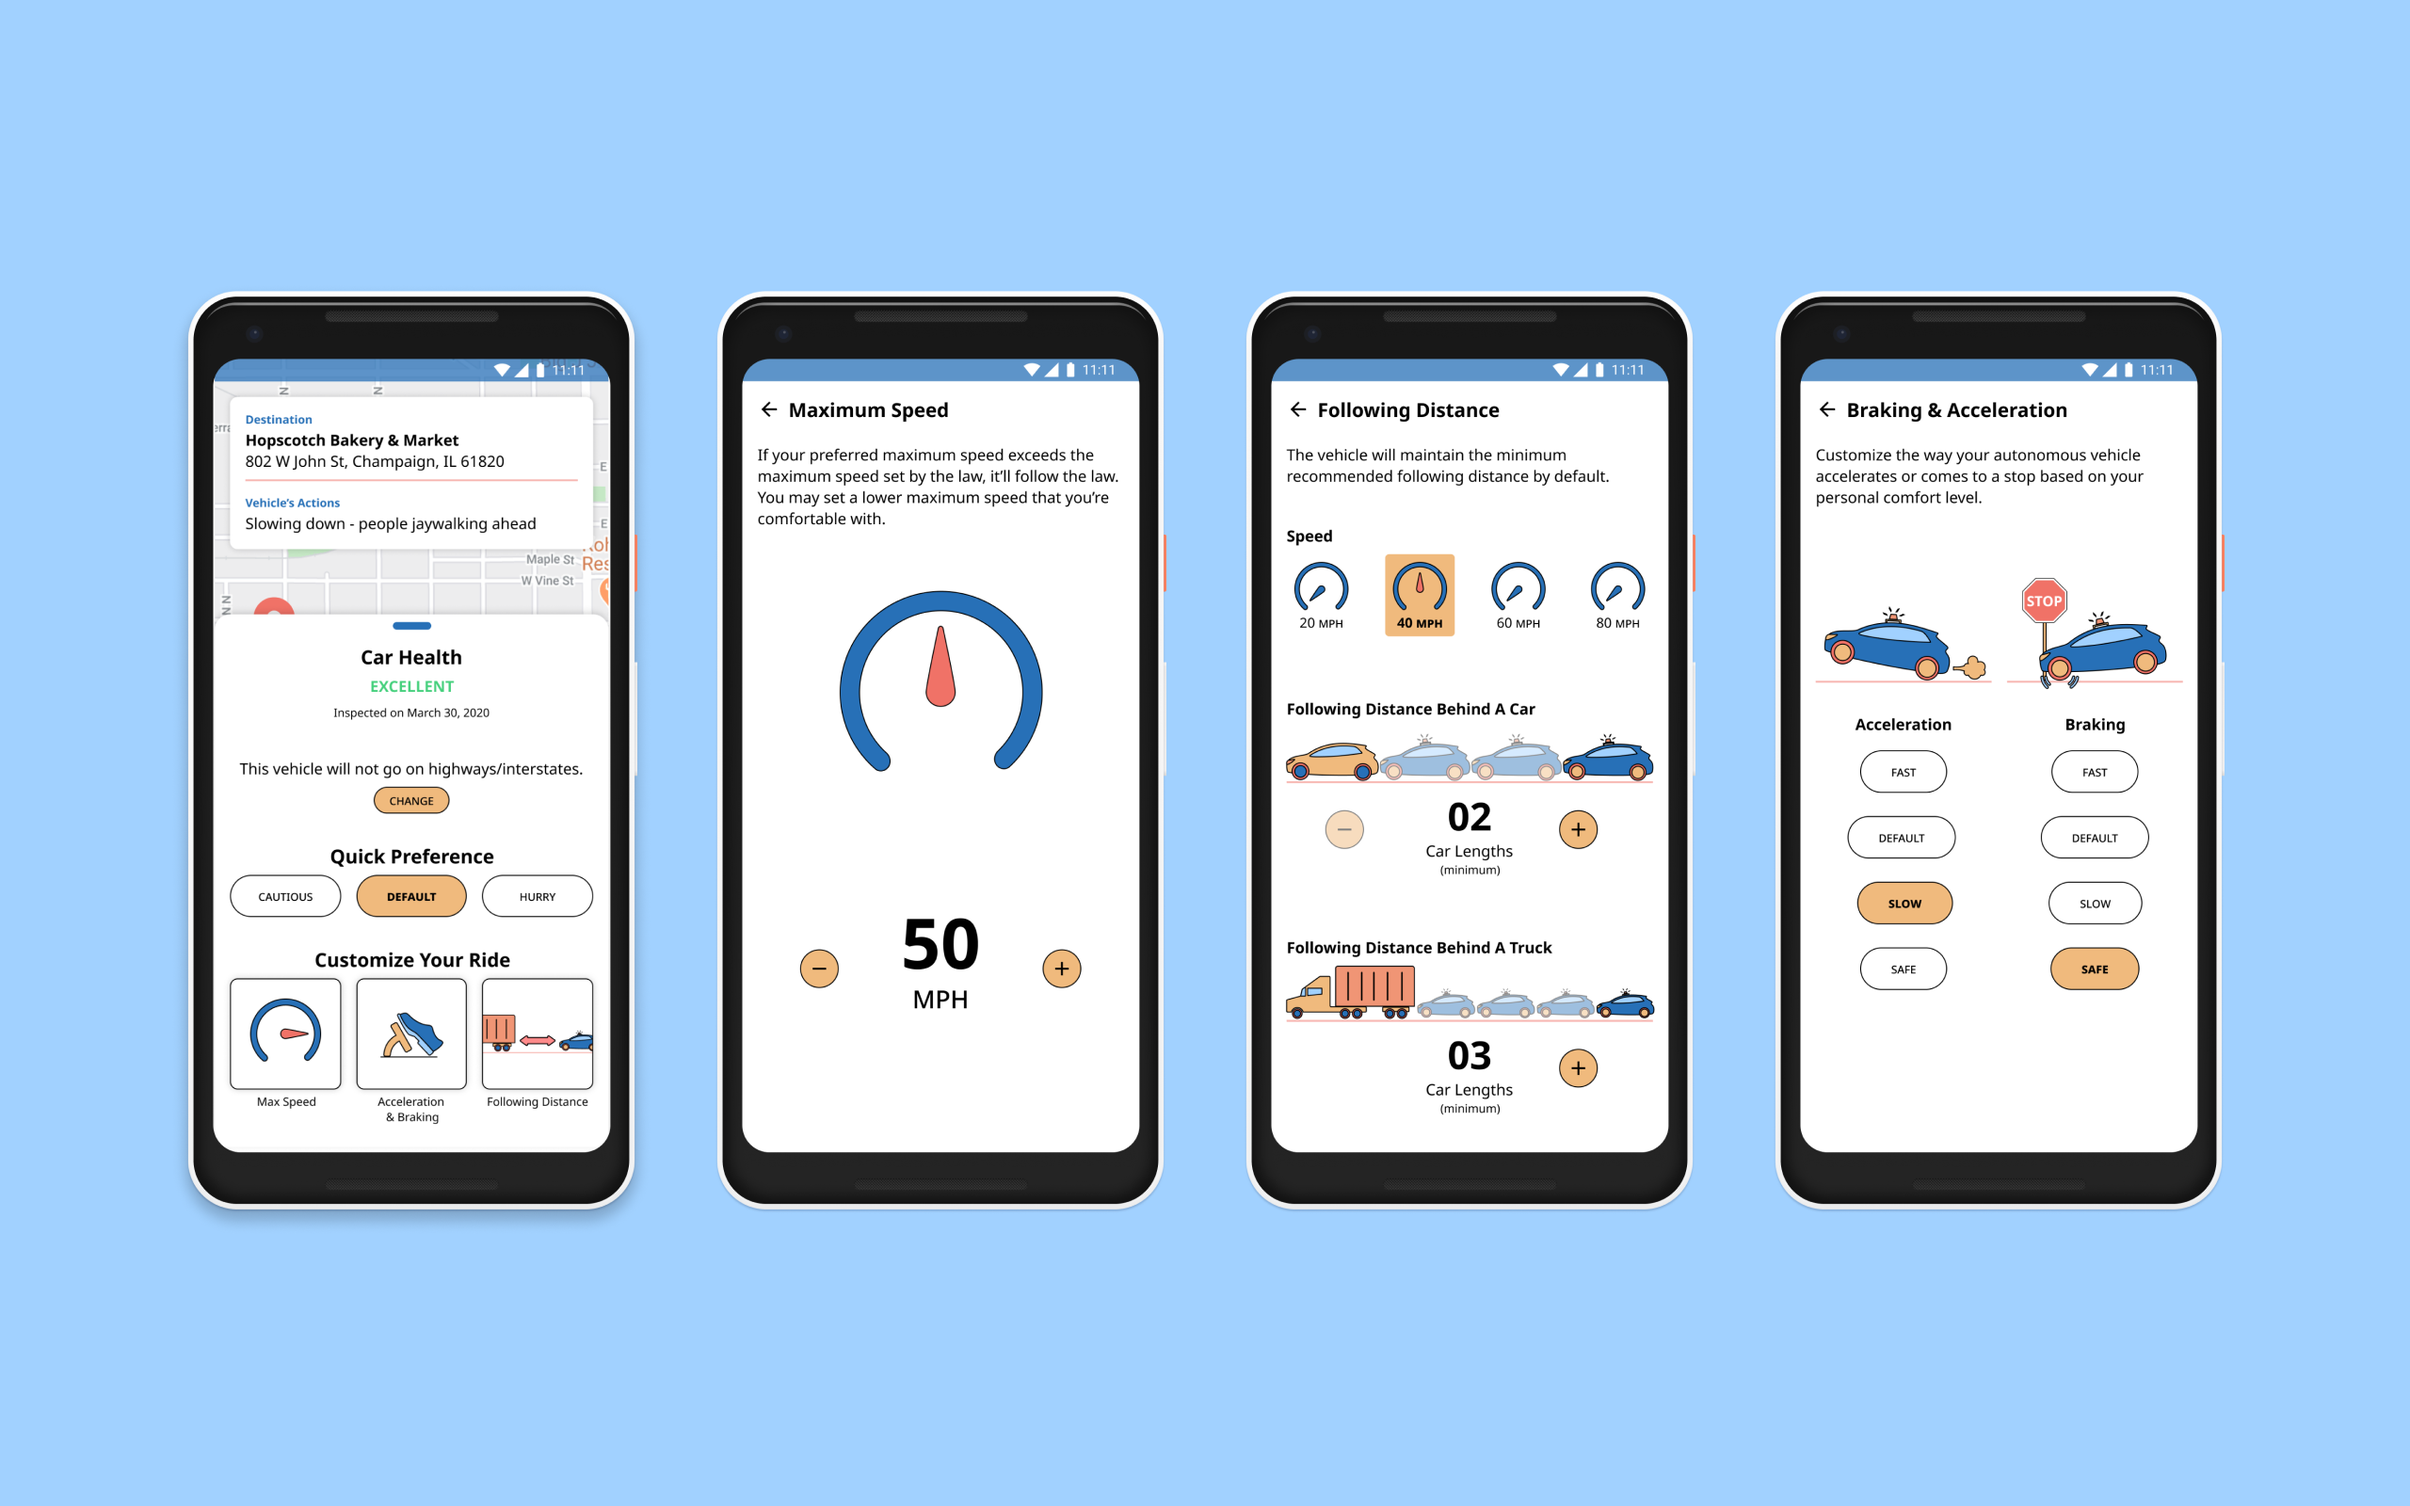
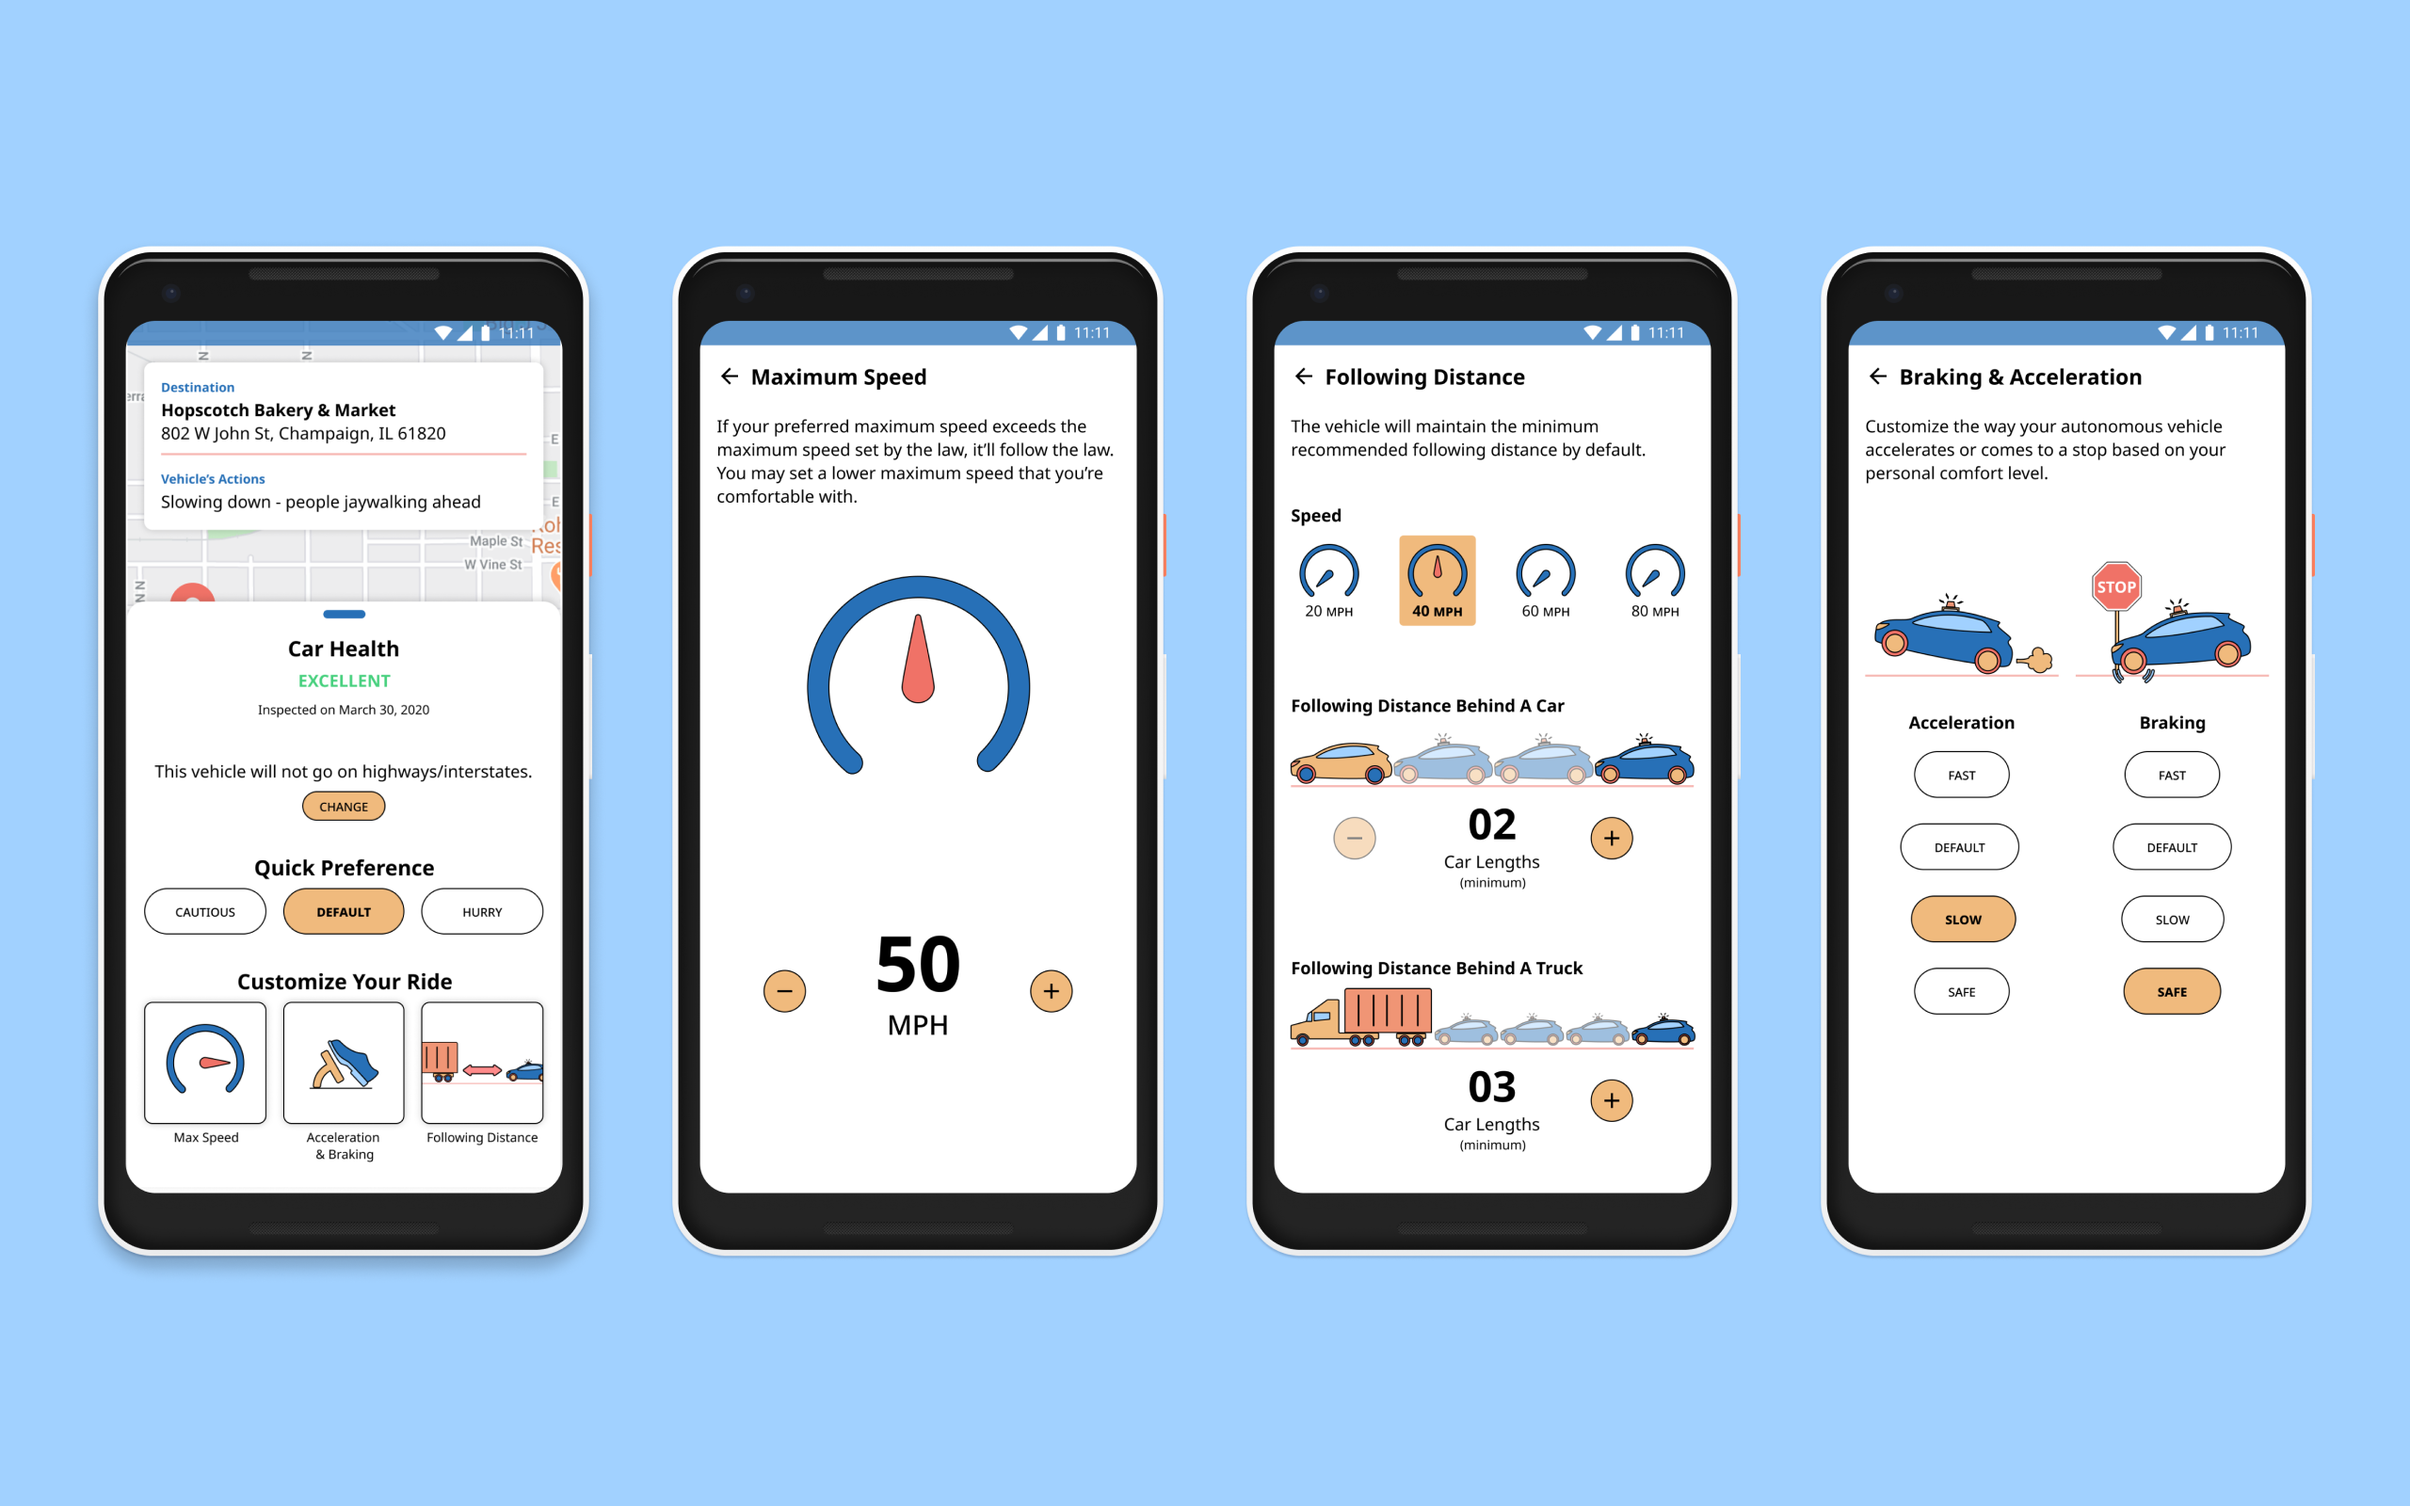
Update Blog “2021-02-28-uncar-customizing-the-autonomous-vehicle-ride-experience”

Changed region(s): [[0.0312, 0.1562, 0.9688, 0.8438], [0.4688, 0.3438, 0.5, 0.375]]

diff --git a/_data/blog/2021-02-28-uncar-customizing-the-autonomous-vehicle-ride-experience.md b/_data/blog/2021-02-28-uncar-customizing-the-autonomous-vehicle-ride-experience.md
@@ -47,6 +47,8 @@ Through research, I found that (1) maximum speed, (2) sudden increase or decreas
 
 ### Feature #1: Vehicle Actions + Emergency Stop
 
+![mockups showing vehicle actions and emergency button](/assets/self-driving_home-screen.png)
+
 The vehicle's actions are displayed on the top of the screen. There is also an emergency stop button. This button requires a swipe (rather than a typical tap) to prevent accidental triggers. This opens up a screen that now requires a simultaneous swiping of 2 buttons to stop the vehicle. *\[note: accessibility was not full considered for this design, and will iterate on this in further exploration]*
 
 ### Feature #2: Customizing Maximum Speed
